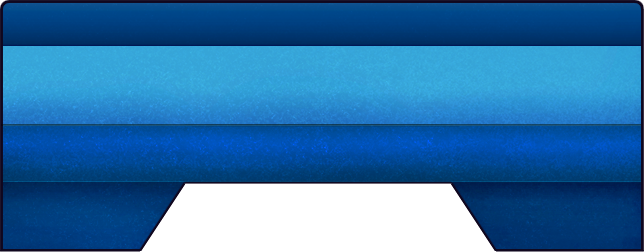
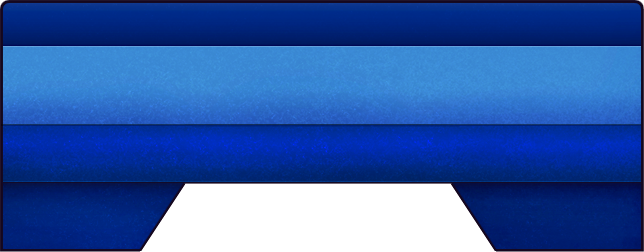
Updates for CPL 13

diff --git a/src/state/app-state.js b/src/state/app-state.js
@@ -53,12 +53,12 @@ export function useScoreboardState(setInitialValues = true, setDebugValues = fal
         replayBlocker: false
       },
       useScore: true,
-      replayBlockerType: null, // 'cpl11'
+      replayBlockerType: null, // 'cpl13'
       isDebugging: false,
-      mapName: 'Butter',
-      knownMaps: ['Butter', 'Eclipse', 'Dominator', 'Deja Vu', 'Radeon', 'Vermeer'],
-      tournamentName: 'CPL 11',
-      roundName: 'Quarter-finals',
+      mapName: 'KnockOut',
+      knownMaps: ['KnockOut', 'Attitude', 'Radeon', /*'Colorless Fate', 'Octagon', 'Dominator'*/],
+      tournamentName: 'CPL 13',
+      roundName: 'Preseason W1',
       __setInitialValues: true
     })
   }

diff --git a/index.html b/index.html
@@ -3,7 +3,7 @@
   <head>
     <meta charset="utf-8" />
     <meta name="viewport" content="width=device-width, initial-scale=1.0" />
-    <title>CPL 11 Scoreboard</title>
+    <title>CPL 13 Scoreboard</title>
   </head>
   <body>
     <div id="root"></div>

diff --git a/src/atoms/MinimapScoreboard/index.css b/src/atoms/MinimapScoreboard/index.css
@@ -356,7 +356,6 @@
   display: none;
 }
 .MinimapScoreboard.style-nsl6 .backdrop.no-teams {
-  top: 30px;
 }
 .MinimapScoreboard.style-nsl6.use-teams .backdrop.teams {
   display: block;
